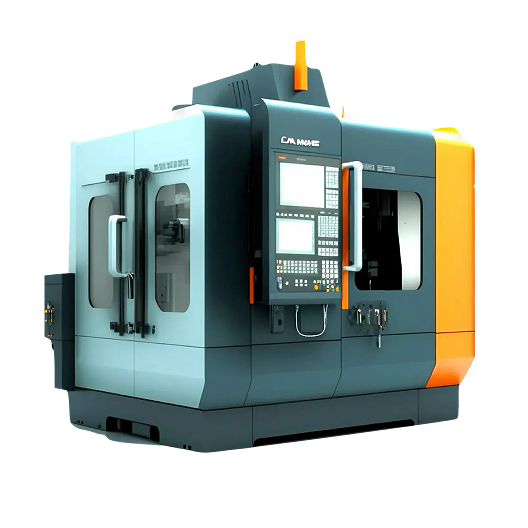
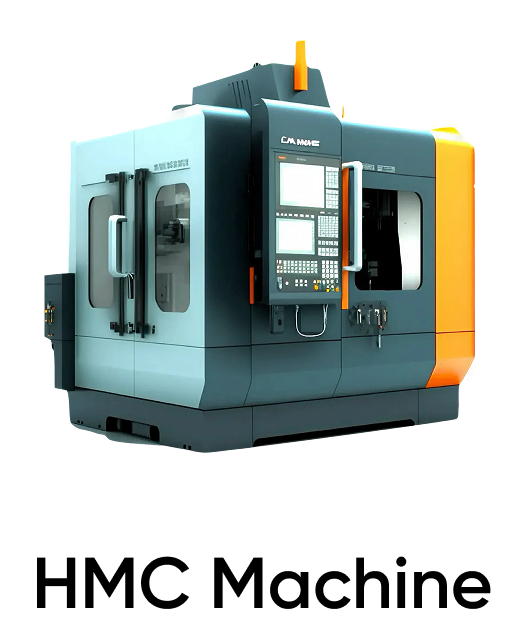
Capabilities section image changes

diff --git a/src/components/CapabilityCard3.tsx b/src/components/CapabilityCard3.tsx
@@ -2,24 +2,20 @@
 
 export default function CapabilityCard3() {
   const protocols = [
-    { name: "OPC UA", logo: "/assets/protocols/opc-ua.png" },
-    { name: "Modbus", logo: "/assets/protocols/modbus.png" },
-    { name: "MTConnect", logo: "/assets/protocols/mtconnect.png" },
-    { name: "MQTT", logo: "/assets/protocols/mqtt.png" },
-    { name: "FANUC", logo: "/assets/protocols/fanuc.png" },
-    { name: "I/O", logo: "/assets/protocols/io.png" },
-    { name: "HTTP", logo: "/assets/protocols/http.png" },
+    { name: "ethernet", logo: "/assets/platform/eagle/ethernet.png" },
+    { name: "wifi", logo: "/assets/platform/eagle/wifi.png" },
+    { name: "GSM", logo: "/assets/platform/eagle/GSM.png" }
   ];
 
   return (
     <div className="bg-[#005b80] box-border content-stretch flex flex-col gap-[36px] items-start overflow-clip p-[48px] rounded-[16px] w-[1152px] relative shadow-[0px_20px_60px_rgba(0,0,0,0.2)]">
       <p className="font-['Gilroy:Semibold',sans-serif] leading-[40px] not-italic relative shrink-0 text-white text-[34px]">{`Supported Protocols & Drivers`}</p>
 
-      <div className="grid grid-cols-4 gap-x-[80px] gap-y-[60px] w-full mt-[20px]">
+      <div className="grid grid-cols-3 gap-x-[80px] gap-y-[60px] w-full mt-[20px] justify-between">
         {protocols.map((protocol, index) => (
           <div
             key={index}
-            className="flex items-center justify-center h-[80px]"
+            className="flex items-center justify-center h-[156px]"
           >
             <img
               src={protocol.logo}

diff --git a/src/components/CapabilityCard2.tsx b/src/components/CapabilityCard2.tsx
@@ -2,13 +2,10 @@
 
 export default function CapabilityCard2() {
   const protocols = [
-    { name: "OPC UA", logo: "/assets/protocols/opc-ua.png" },
-    { name: "Modbus", logo: "/assets/protocols/modbus.png" },
-    { name: "MTConnect", logo: "/assets/protocols/mtconnect.png" },
-    { name: "MQTT", logo: "/assets/protocols/mqtt.png" },
-    { name: "FANUC", logo: "/assets/protocols/fanuc.png" },
-    { name: "I/O", logo: "/assets/protocols/io.png" },
-    { name: "HTTP", logo: "/assets/protocols/http.png" },
+    { name: "CNC", logo: "/assets/platform/eagle/CNC.png" },
+    { name: "VMC", logo: "/assets/platform/eagle/VMC.png" },
+    { name: "HMC", logo: "/assets/platform/eagle/HMC.png" },
+    { name: "Molding Machine", logo: "/assets/platform/eagle/molding_machine.png" },
   ];
 
   return (
@@ -19,7 +16,7 @@ export default function CapabilityCard2() {
         {protocols.map((protocol, index) => (
           <div
             key={index}
-            className="flex items-center justify-center h-[80px]"
+            className="flex items-center justify-center h-[156px]"
           >
             <img
               src={protocol.logo}

diff --git a/src/components/CapabilityCard1.tsx b/src/components/CapabilityCard1.tsx
@@ -2,13 +2,13 @@
 
 export default function CapabilityCard1() {
   const protocols = [
-    { name: "OPC UA", logo: "/assets/protocols/opc-ua.png" },
-    { name: "Modbus", logo: "/assets/protocols/modbus.png" },
-    { name: "MTConnect", logo: "/assets/protocols/mtconnect.png" },
-    { name: "MQTT", logo: "/assets/protocols/mqtt.png" },
-    { name: "FANUC", logo: "/assets/protocols/fanuc.png" },
-    { name: "I/O", logo: "/assets/protocols/io.png" },
-    { name: "HTTP", logo: "/assets/protocols/http.png" },
+    { name: "OPC UA", logo: "/assets/platform/eagle/opcua.png" },
+    { name: "Modbus", logo: "/assets/platform/eagle/modbus.png" },
+    { name: "MTConnect", logo: "/assets/platform/eagle/mtconnect.png" },
+    { name: "MQTT", logo: "/assets/platform/eagle/mqtt.png" },
+    { name: "FANUC", logo: "/assets/platform/eagle/fanuc.png" },
+    { name: "I/O", logo: "/assets/platform/eagle/iot.png" },
+    { name: "HTTP", logo: "/assets/platform/eagle/http.png" },
   ];
 
   return (
